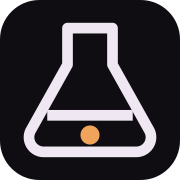
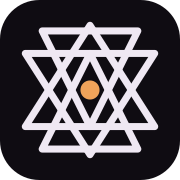
feat(website): Sri Yantra-inspired mark
Four interlocking triangles — two rising, two descending, staggered as
in the yantra — around a copper bindu, replacing the flask in the
favicon, header and OG card. Strokes are currentColor so it holds in
both themes; still legible at 16px.

Changed region(s): [[0.1111, 0.1111, 0.8889, 0.8889]]

diff --git a/website/public/bench.html b/website/public/bench.html
@@ -44,14 +44,34 @@
         <a class="brand" href="/" aria-label="Distilled home">
           <svg class="brand__mark" viewBox="0 0 32 32" aria-hidden="true">
             <path
-              d="M12 3h8v7.5l7 12.5a3 3 0 0 1-2.6 4.5H7.6A3 3 0 0 1 5 23L12 10.5V3z"
+              d="M 16.00 4.50 L 27.50 22.50 L 4.50 22.50 Z"
               fill="none"
               stroke="currentColor"
-              stroke-width="1.8"
+              stroke-width="1.4"
               stroke-linejoin="round"
             />
-            <path d="M8.2 20h15.6" stroke="currentColor" stroke-width="1.8" />
-            <circle cx="16" cy="24" r="1.6" fill="var(--accent)" />
+            <path
+              d="M 16.00 9.50 L 24.50 26.50 L 7.50 26.50 Z"
+              fill="none"
+              stroke="currentColor"
+              stroke-width="1.4"
+              stroke-linejoin="round"
+            />
+            <path
+              d="M 16.00 27.50 L 27.50 9.50 L 4.50 9.50 Z"
+              fill="none"
+              stroke="currentColor"
+              stroke-width="1.4"
+              stroke-linejoin="round"
+            />
+            <path
+              d="M 16.00 22.50 L 24.50 5.50 L 7.50 5.50 Z"
+              fill="none"
+              stroke="currentColor"
+              stroke-width="1.4"
+              stroke-linejoin="round"
+            />
+            <circle cx="16" cy="16" r="1.8" fill="var(--accent)" />
           </svg>
           <span class="brand__name">Distilled</span>
         </a>

diff --git a/website/public/index.html b/website/public/index.html
@@ -55,14 +55,34 @@
         <a class="brand" href="/" aria-label="Distilled home">
           <svg class="brand__mark" viewBox="0 0 32 32" aria-hidden="true">
             <path
-              d="M12 3h8v7.5l7 12.5a3 3 0 0 1-2.6 4.5H7.6A3 3 0 0 1 5 23L12 10.5V3z"
+              d="M 16.00 4.50 L 27.50 22.50 L 4.50 22.50 Z"
               fill="none"
               stroke="currentColor"
-              stroke-width="1.8"
+              stroke-width="1.4"
               stroke-linejoin="round"
             />
-            <path d="M8.2 20h15.6" stroke="currentColor" stroke-width="1.8" />
-            <circle cx="16" cy="24" r="1.6" fill="var(--accent)" />
+            <path
+              d="M 16.00 9.50 L 24.50 26.50 L 7.50 26.50 Z"
+              fill="none"
+              stroke="currentColor"
+              stroke-width="1.4"
+              stroke-linejoin="round"
+            />
+            <path
+              d="M 16.00 27.50 L 27.50 9.50 L 4.50 9.50 Z"
+              fill="none"
+              stroke="currentColor"
+              stroke-width="1.4"
+              stroke-linejoin="round"
+            />
+            <path
+              d="M 16.00 22.50 L 24.50 5.50 L 7.50 5.50 Z"
+              fill="none"
+              stroke="currentColor"
+              stroke-width="1.4"
+              stroke-linejoin="round"
+            />
+            <circle cx="16" cy="16" r="1.8" fill="var(--accent)" />
           </svg>
           <span class="brand__name">Distilled</span>
         </a>

diff --git a/website/public/shame.html b/website/public/shame.html
@@ -44,14 +44,34 @@
         <a class="brand" href="/" aria-label="Distilled home">
           <svg class="brand__mark" viewBox="0 0 32 32" aria-hidden="true">
             <path
-              d="M12 3h8v7.5l7 12.5a3 3 0 0 1-2.6 4.5H7.6A3 3 0 0 1 5 23L12 10.5V3z"
+              d="M 16.00 4.50 L 27.50 22.50 L 4.50 22.50 Z"
               fill="none"
               stroke="currentColor"
-              stroke-width="1.8"
+              stroke-width="1.4"
               stroke-linejoin="round"
             />
-            <path d="M8.2 20h15.6" stroke="currentColor" stroke-width="1.8" />
-            <circle cx="16" cy="24" r="1.6" fill="var(--accent)" />
+            <path
+              d="M 16.00 9.50 L 24.50 26.50 L 7.50 26.50 Z"
+              fill="none"
+              stroke="currentColor"
+              stroke-width="1.4"
+              stroke-linejoin="round"
+            />
+            <path
+              d="M 16.00 27.50 L 27.50 9.50 L 4.50 9.50 Z"
+              fill="none"
+              stroke="currentColor"
+              stroke-width="1.4"
+              stroke-linejoin="round"
+            />
+            <path
+              d="M 16.00 22.50 L 24.50 5.50 L 7.50 5.50 Z"
+              fill="none"
+              stroke="currentColor"
+              stroke-width="1.4"
+              stroke-linejoin="round"
+            />
+            <circle cx="16" cy="16" r="1.8" fill="var(--accent)" />
           </svg>
           <span class="brand__name">Distilled</span>
         </a>

diff --git a/website/assets/og.html b/website/assets/og.html
@@ -112,18 +112,36 @@
   </head>
   <body>
     <div class="brand">
-      <svg
-        viewBox="0 0 32 32"
-        fill="none"
-        stroke="#efe8f3"
-        stroke-width="1.9"
-        stroke-linejoin="round"
-      >
+      <svg viewBox="0 0 32 32">
         <path
-          d="M12 5h8v6.5l6.6 11.8A2.6 2.6 0 0 1 24.3 27H7.7a2.6 2.6 0 0 1-2.3-3.7L12 11.5V5z"
+          d="M 16.00 4.50 L 27.50 22.50 L 4.50 22.50 Z"
+          fill="none"
+          stroke="#efe8f3"
+          stroke-width="1.3"
+          stroke-linejoin="round"
         />
-        <path d="M8.4 20.5h15.2" />
-        <circle cx="16" cy="24" r="1.7" fill="#f0a35a" stroke="none" />
+        <path
+          d="M 16.00 9.50 L 24.50 26.50 L 7.50 26.50 Z"
+          fill="none"
+          stroke="#efe8f3"
+          stroke-width="1.3"
+          stroke-linejoin="round"
+        />
+        <path
+          d="M 16.00 27.50 L 27.50 9.50 L 4.50 9.50 Z"
+          fill="none"
+          stroke="#efe8f3"
+          stroke-width="1.3"
+          stroke-linejoin="round"
+        />
+        <path
+          d="M 16.00 22.50 L 24.50 5.50 L 7.50 5.50 Z"
+          fill="none"
+          stroke="#efe8f3"
+          stroke-width="1.3"
+          stroke-linejoin="round"
+        />
+        <circle cx="16" cy="16" r="1.7" fill="#f0a35a" />
       </svg>
       <span>Distilled</span>
     </div>
